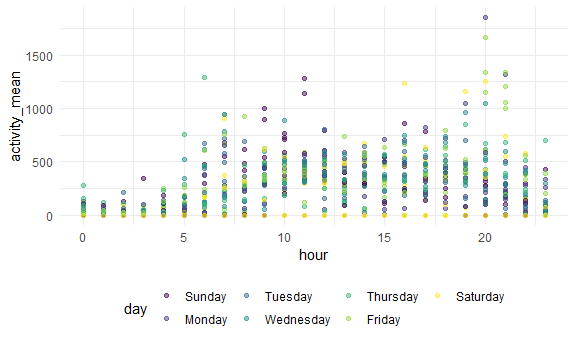
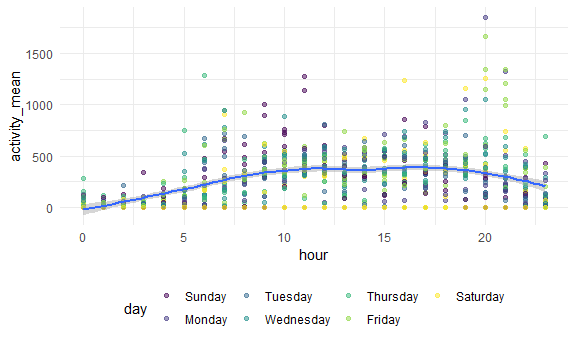
Problem 3-3 & draft 3-4

diff --git a/p8105_hw3_ls3751.md b/p8105_hw3_ls3751.md
@@ -239,10 +239,13 @@ accel_df %>%
   group_by(week,day,hour) %>% 
   summarise(activity_mean = mean(counts, na.rm = T)) %>% 
   ggplot(aes(x = hour, y = activity_mean)) +
-  geom_point(aes(color = day), alpha = .5)
+  geom_point(aes(color = day), alpha = .5) +
+  geom_smooth()
 ```
 
     ## `summarise()` regrouping output by 'week', 'day' (override with `.groups` argument)
+
+    ## `geom_smooth()` using method = 'loess' and formula 'y ~ x'
 
 <img src="p8105_hw3_ls3751_files/figure-gfm/unnamed-chunk-10-1.png" width="90%" />
 
@@ -321,3 +324,51 @@ The most common observed value for snowfall is 0 since we do not expect
 to have any snowfall during a long period of every year.
 
 #### 3\. Make a two-panel plot showing the average max temperature in January and in July in each station across years.
+
+``` r
+ny_jan_jul = ny_df %>% 
+  filter(month %in% c(1, 7)) %>% 
+  group_by(id, year, month) %>% 
+  summarize(avg_tmax = mean(tmax, na.rm = TRUE)) %>% 
+  drop_na()
+ 
+ny_jan_jul %>% 
+  ggplot(aes(x = year, y = avg_tmax, color = id)) +
+  geom_point(alpha = .5) +
+  geom_path(alpha = .3) +
+  labs(
+    title = "Average max temperature in January and July",
+    subtitle = "1981-2010, New York state",
+    x = "Time (year)",
+    y = "Average max temperature (C)",
+    caption = "From NOAA") +
+  scale_x_continuous(breaks = c(seq(1980,2010, by = 5)),
+                   labels = c(seq(1980,2010, by = 5))) +
+  facet_grid(.~month) +
+  theme(legend.position = "none", axis.text.x = element_text(angle = 270,  vjust = 0.5,  hjust = 1))
+```
+
+<img src="p8105_hw3_ls3751_files/figure-gfm/unnamed-chunk-14-1.png" width="90%" />
+
+The average max temperature in January distributed from -10 C to 10 C
+with few outliers(e.g.1982, 1994, 2005). It seems to be centered at 0
+C.  
+The average max temperature in July has a smaller variation compared
+with January, ranging from 20 C to 35 C. It seems to be centered at 27.5
+C. A few more outliers were detected (1984, 1988, 2004, 2007).
+
+#### 4.1 Make a two-panel plot showing tmax vs tmin for the full dataset
+
+``` r
+tmax_tmin = ny_df %>% 
+  drop_na(tmax,tmin) %>% 
+  ggplot(aes(x = tmax, y = tmin)) +
+  geom_hex() +
+  labs(
+    title = "Maximum temp vs. minimum ",
+    subtitle = "1981-2010 New York state",
+    x = "Max temperature (C)",
+    y = "Min temperature (C)",
+    caption = "From NOAA") +
+  theme(legend.text = element_text(size = 5))
+```
